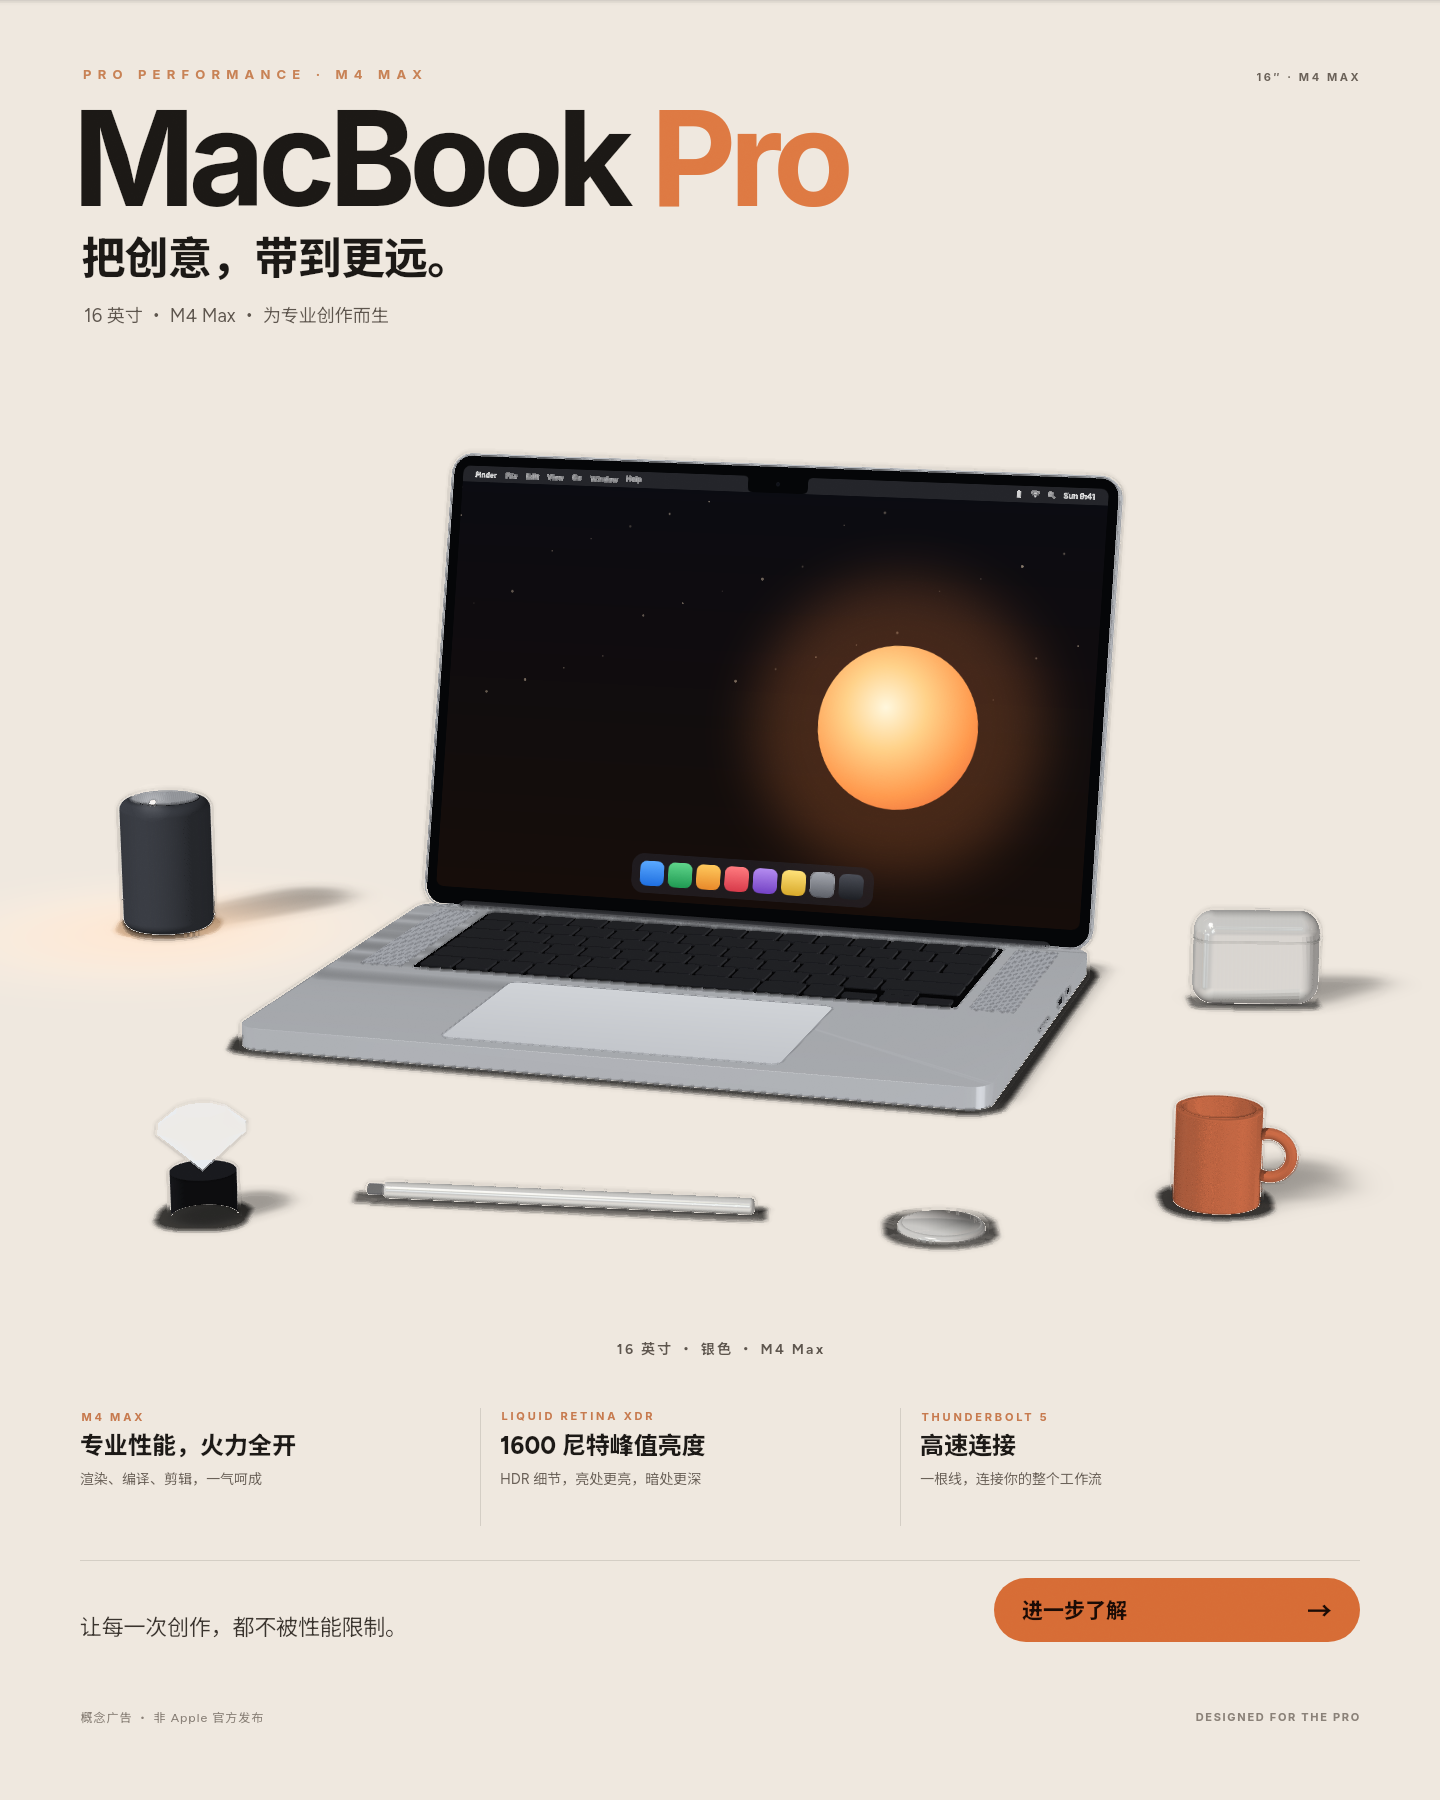
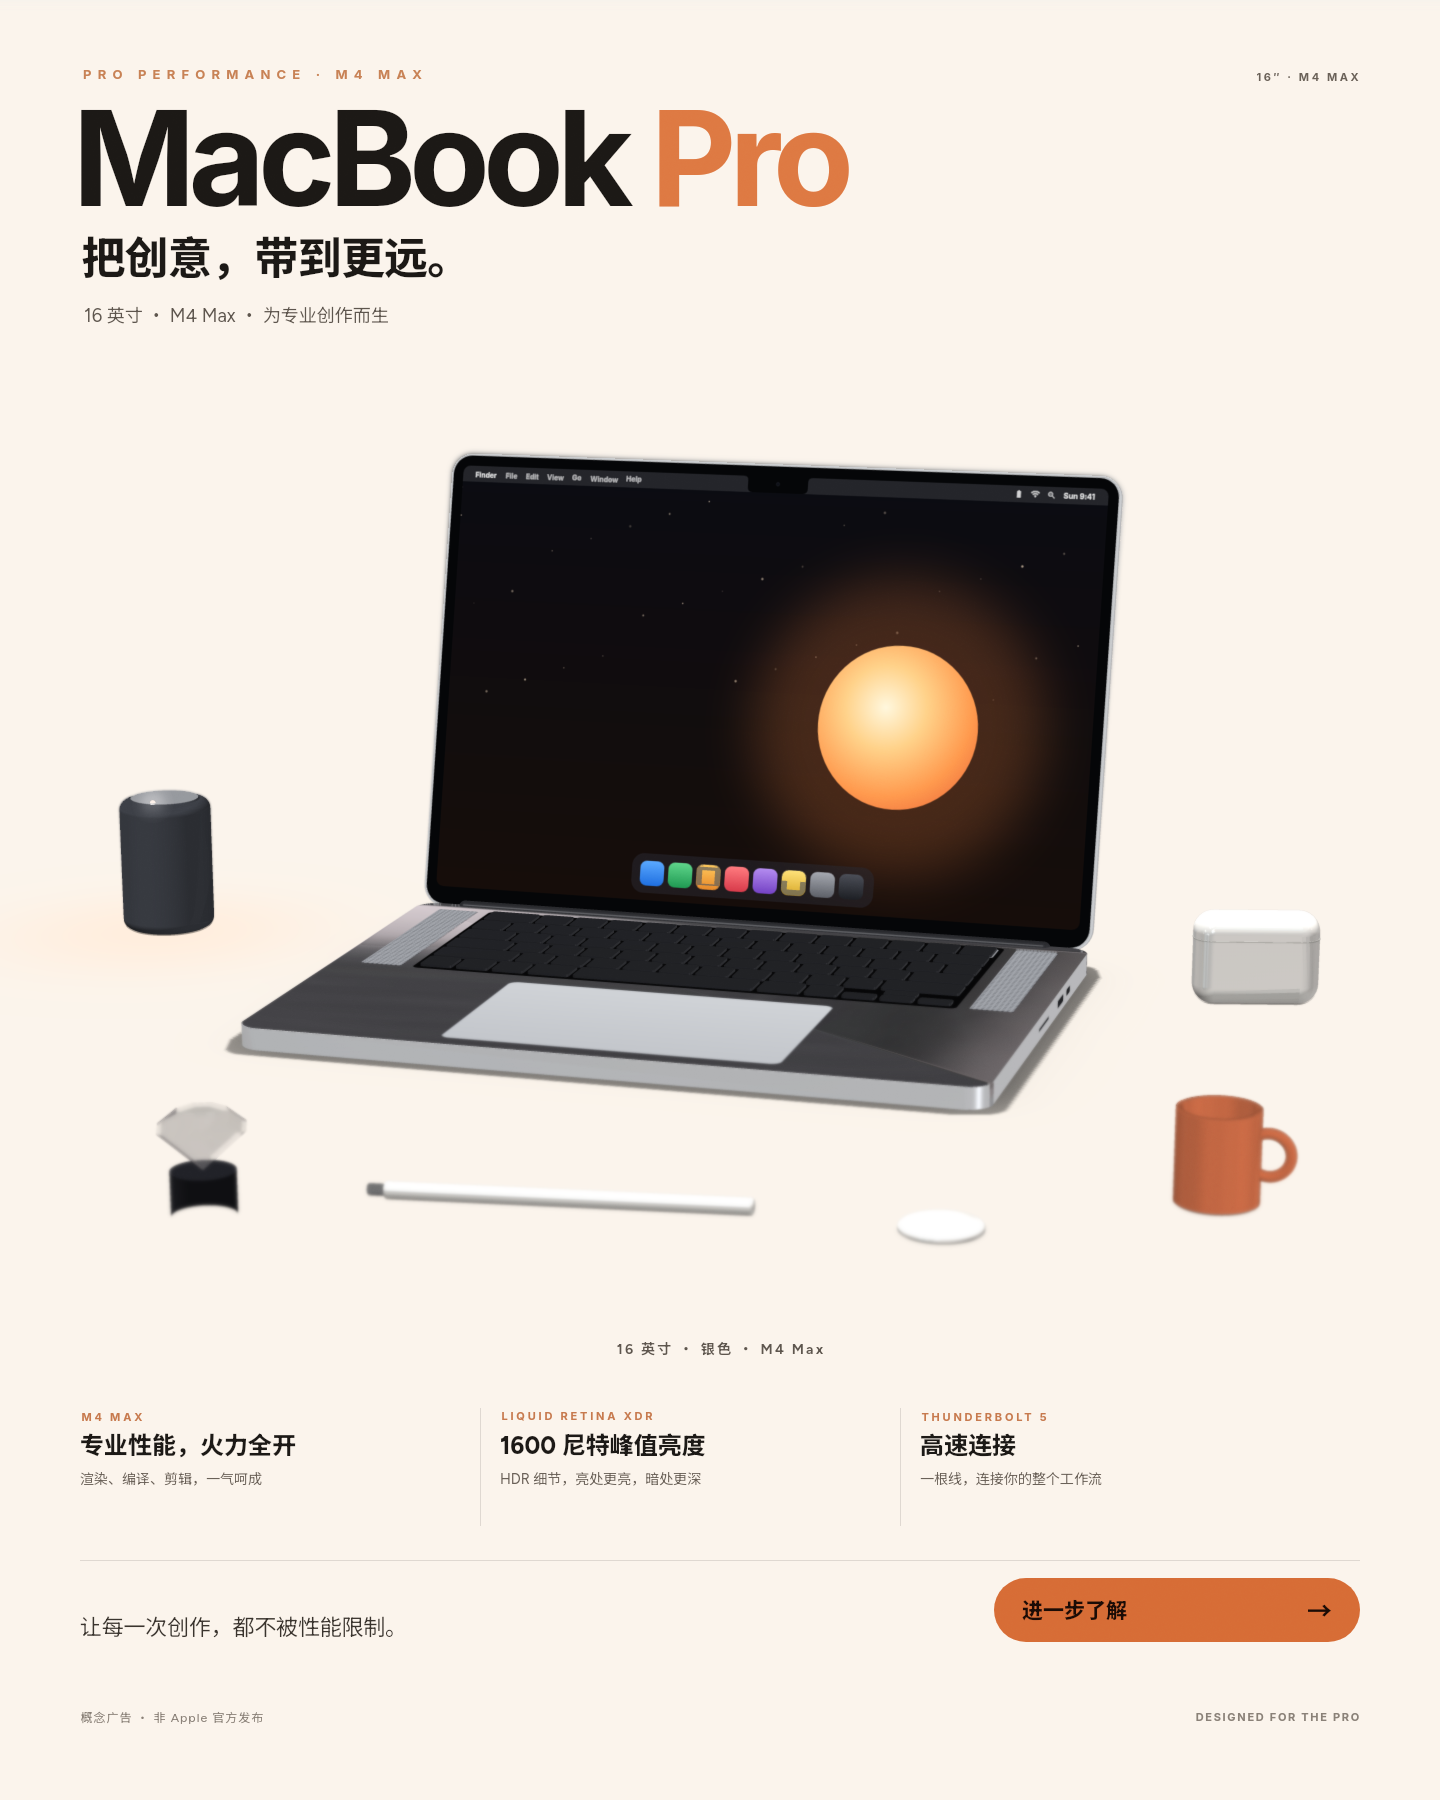
0.17.8: soften MacBook desk-props shadows and silhouette stairs.
Brighter fill, softer ground pool, props stop casting, mild DOF + a hair of
camera blur, and a rougher metal finish so cream-page edges read cleaner.

diff --git a/examples/macbook-pro.tsx b/examples/macbook-pro.tsx
@@ -8,7 +8,7 @@ import * as THREE from 'three'
 // 真机是平顶、竖直侧壁、俯视四角中等圆角，棱上只有很小的倒角：
 // 所以圆角只给竖直的四条棱（round="z"），顶面和底面的折棱交给屏幕尺度倒角。
 const SILVER = '#c6c9ce'
-const SHELL = 'metal'
+const SHELL = 'finish metal, color #c6c9ce, roughness 0.38, metalness 0.92'
 const KEY = '#1f2024'
 const WELL = '#060607'
 
@@ -110,7 +110,7 @@ const padY = D - 28 - PAD.h
 
 function Base() {
   return (
-    <layer x={STAGE.x} y={STAGE.groundY - TOP} width={W} height={D} origin={`${W / 2} 0`} rotateX="90" preserve-3d>
+    <layer x={STAGE.x} y={STAGE.groundY - TOP} width={W} height={D} origin={`${W / 2} 0`} rotateX="90" preserve-3d sharp="true">
       <rect width={W} height={D} rx={CORNER} round="z" fill={SILVER} material={SHELL} depth={T} stroke="none" />
       <layer x="0" y="0" width={W} height={D} z={TOP + 0.2} cast-shadow="false">
         <rect x={WELL_BOX.x} y={WELL_BOX.y} width={WELL_BOX.w} height={WELL_BOX.h} rx="8" fill={WELL} />
@@ -206,7 +206,7 @@ function Wallpaper() {
 
 function Lid() {
   return (
-    <layer x={STAGE.x} y={STAGE.groundY - T + 4 - LID_H} width={W} height={LID_H} origin={`${W / 2} ${LID_H}`} rotateX={LID_TILT} cast-shadow="false">
+    <layer x={STAGE.x} y={STAGE.groundY - T + 4 - LID_H} width={W} height={LID_H} origin={`${W / 2} ${LID_H}`} rotateX={LID_TILT} cast-shadow="false" sharp="true">
       <rect width={W} height={LID_H} rx={CORNER} round="z" fill={SILVER} material={SHELL} depth={LID_T} z={-LID_T / 2 - 1} stroke="none" cast-shadow="false" />
       <rect x={GLASS_INSET} y={GLASS_INSET} width={W - 2 * GLASS_INSET} height={LID_H - 2 * GLASS_INSET} rx={CORNER - GLASS_INSET} fill="#050608" cast-shadow="false" />
       <Wallpaper />
@@ -256,29 +256,29 @@ function Props() {
     <layer x="0" y={STAGE.groundY} width={FLOOR.w} height={FLOOR.h} origin={`${FLOOR.w / 2} 0`} rotateX="90" preserve-3d>
       {/* 左后：圆柱蓝牙音箱。布面机身上下倒圆，拉丝铝顶盖，顶上一颗暖色指示灯 */}
       <layer x={SPEAKER.cx} y={SPEAKER.cy} width="0" height="0" z={SPEAKER.h / 2} preserve-3d>
-        <cylinder cx="0" cy="0" r={SPEAKER.r} height={SPEAKER.h} rx="14" rotateX="90" fill="#3b3e45" material="matte" />
+        <cylinder cx="0" cy="0" r={SPEAKER.r} height={SPEAKER.h} rx="14" rotateX="90" fill="#3b3e45" material="matte" cast-shadow="false" />
       </layer>
-      <circle cx={SPEAKER.cx} cy={SPEAKER.cy} r={SPEAKER.r - 16} depth="2" z={SPEAKER.h + 1} fill="#b9bcc2" material="brushed" />
-      <sphere cx={SPEAKER.cx} cy={SPEAKER.cy + SPEAKER.r - 24} r="4" z={SPEAKER.h + 2} fill="#ff9a52" material="lamp" />
+      <circle cx={SPEAKER.cx} cy={SPEAKER.cy} r={SPEAKER.r - 16} depth="2" z={SPEAKER.h + 1} fill="#b9bcc2" material="brushed" cast-shadow="false" />
+      <sphere cx={SPEAKER.cx} cy={SPEAKER.cy + SPEAKER.r - 24} r="4" z={SPEAKER.h + 2} fill="#ff9a52" material="lamp" cast-shadow="false" />
       {/* 右前：陶瓷马克杯，杯把朝外，是竖起来的圆环，一半埋在杯壁里 */}
-      <path d={cupPath(MUG.cx, MUG.cy, MUG.r, 6)} fill-rule="evenodd" depth={MUG.h} z={MUG.h / 2} fill="#c96a45" material="clay" stroke="none" />
+      <path d={cupPath(MUG.cx, MUG.cy, MUG.r, 6)} fill-rule="evenodd" depth={MUG.h} z={MUG.h / 2} fill="#c96a45" material="clay" stroke="none" cast-shadow="false" />
       {/* 同一个元素上 rotateX 会吞掉 z，所以抬高写在外层 */}
       <layer x={MUG.cx + MUG.r + 8} y={MUG.cy} width="0" height="0" z={MUG.h / 2 + 4} preserve-3d>
-        <torus cx="0" cy="0" r="24" tube="6" rotateX="90" fill="#c96a45" material="clay" />
+        <torus cx="0" cy="0" r="24" tube="6" rotateX="90" fill="#c96a45" material="clay" cast-shadow="false" />
       </layer>
       {/* 正前：Apple Pencil 斜躺在机身前面，笔尖一小段灰色 */}
       <layer x={PENCIL.cx} y={PENCIL.cy} width="0" height="0" rotate={PENCIL.turn} preserve-3d>
-        <cylinder cx="0" cy="0" r={PENCIL.r} height={PENCIL.len} rx="4" z={PENCIL.r} fill="#f4f3ef" material="plastic 0.3" rotate="90" />
-        <cylinder cx={-PENCIL.len / 2 - 9} cy="0" r={PENCIL.r - 3} height="18" z={PENCIL.r} fill="#8e9096" material="plastic 0.5" rotate="90" />
+        <cylinder cx="0" cy="0" r={PENCIL.r} height={PENCIL.len} rx="4" z={PENCIL.r} fill="#f4f3ef" material="plastic 0.3" rotate="90" cast-shadow="false" />
+        <cylinder cx={-PENCIL.len / 2 - 9} cy="0" r={PENCIL.r - 3} height="18" z={PENCIL.r} fill="#8e9096" material="plastic 0.5" rotate="90" cast-shadow="false" />
       </layer>
       {/* 右前，笔尖旁：AirTag 白面朝上，圆口倒圆。挤出的薄圆片顶面会读成黑片，所以用带 rx 的圆柱 */}
-      <cylinder cx="1267" cy="1075" r="46" height="13" rx="5" z="6" rotateX="90" fill="#f4f3ef" material="plastic 0.2" />
+      <cylinder cx="1267" cy="1075" r="46" height="13" rx="5" z="6" rotateX="90" fill="#f4f3ef" material="plastic 0.2" cast-shadow="false" />
       {/* 右后：竖放的 AirPods 盒，四面大圆角，盖缝一道浅灰 */}
-      <rect x={POD.x} y={POD.y} width={POD.w} height={POD.d} depth={POD.h} rx="26" z={POD.h / 2} fill="#f4f3ef" material="plastic 0.12" rotate="-14" />
+      <rect x={POD.x} y={POD.y} width={POD.w} height={POD.d} depth={POD.h} rx="26" z={POD.h / 2} fill="#f4f3ef" material="plastic 0.12" rotate="-14" cast-shadow="false" />
       <rect x={POD.x - 0.6} y={POD.y - 0.6} width={POD.w + 1.2} height={POD.d + 1.2} depth="1.4" rx="26" round="z" z={POD.h * 0.72} fill="#c9c9c4" material="plastic 0.3" rotate="-14" cast-shadow="false" />
       {/* 左前：钻石尖朝下立在黑色绒面展台上，深色底衬出玻璃 */}
-      <circle cx={GEM.x} cy={GEM.y} r={GEM.r * 0.7} depth={GEM.stand} z={GEM.stand / 2} fill="#202126" material="matte" />
-      <model object={diamond} unit={GEM.r} x={GEM.x} y={GEM.y} z={GEM.stand + GEM.r * 0.95} material="glass 0.06" />
+      <circle cx={GEM.x} cy={GEM.y} r={GEM.r * 0.7} depth={GEM.stand} z={GEM.stand / 2} fill="#202126" material="matte" cast-shadow="false" />
+      <model object={diamond} unit={GEM.r} x={GEM.x} y={GEM.y} z={GEM.stand + GEM.r * 0.95} material="glass 0.06" cast-shadow="false" />
     </layer>
   )
 }
@@ -286,11 +286,14 @@ function Props() {
 export default (
   <layer width="1440" height="1800" background="#f6f3ee" color="#1c1916" min-font="10" noise="0.012">
     <rect x="0" y="0" width="1440" height="1800" fill="linear-gradient(180deg, #f7f4ef 0%, #efe8df 100%)" />
-    <layer width="1440" height="1800" camera={CAMERA}>
+    <layer width="1440" height="1800" camera={`${CAMERA}, aperture 5`} quality="final" light="world" filter="blur(0.4px)">
+      <light type="hemisphere" intensity="0.62" color="#f2f3f6" ground-color="#d5d1c9" />
+      <light type="directional" intensity="0.32" color="#ffffff" x="120" y="-460" z="760" target="720 1000 0" />
+      <light type="directional" intensity="0.28" color="#e8ecf2" x="-300" y="-120" z="420" target="720 1000 0" />
       <Lid />
       <Base />
       <Props />
-      <ground y={STAGE.groundY} rotateX="90" fill="#efe8df" shadow-blur="36" shadow-opacity="0.34" />
+      <ground y={STAGE.groundY} rotateX="90" fill="#efe8df" shadow-blur="260" shadow-opacity="0.08" />
     </layer>
     <layer x="80" y="66">
       <p style="font-family:Inter; font-size:13px; font-weight:700; letter-spacing:6.2px; color:#c88255">PRO PERFORMANCE · M4 MAX</p>

diff --git a/CHANGELOG.md b/CHANGELOG.md
@@ -1,5 +1,9 @@
 # Changelog
 
+## 0.17.8
+
+The desk-props MacBook sample softens the stage: `quality="final"`, a mild hemisphere + two soft directionals, ground `shadow-blur` 240 / opacity 0.1, desk accessories `cast-shadow="false"` so only the chassis leaves one pool, `aperture 5` with `sharp` on the laptop, and a slightly rougher metal finish so silhouettes stair less against the cream page.
+
 ## 0.17.7
 
 `examples/macbook-pro.tsx` is again the desk-props poster (bright silver metal chassis, Touch ID, speaker / mug / Pencil / AirTag / AirPods / diamond finishes). QUALITY-6 had kept the seampale look plate for §9.2 dual-blind; that framing is no longer the shipped sample. `scripts/examples-metrics.mjs` edge and grille windows follow the desk-props stage.
